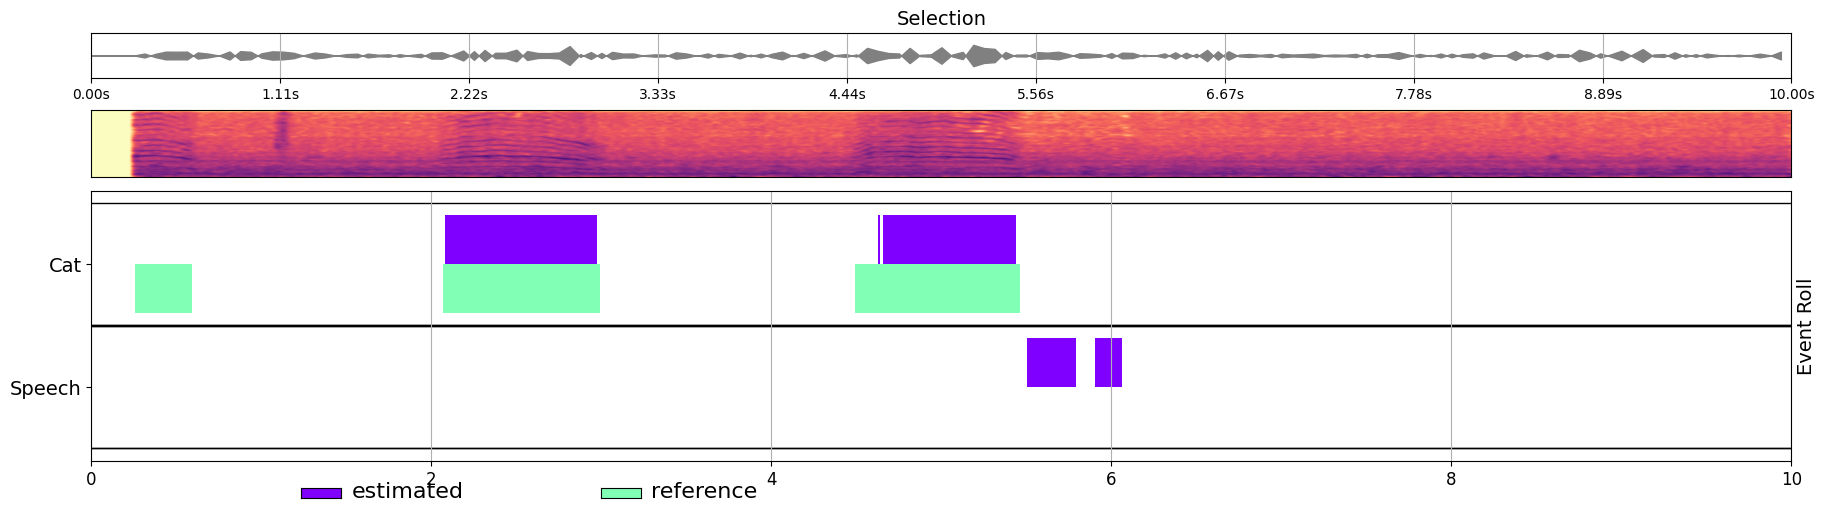
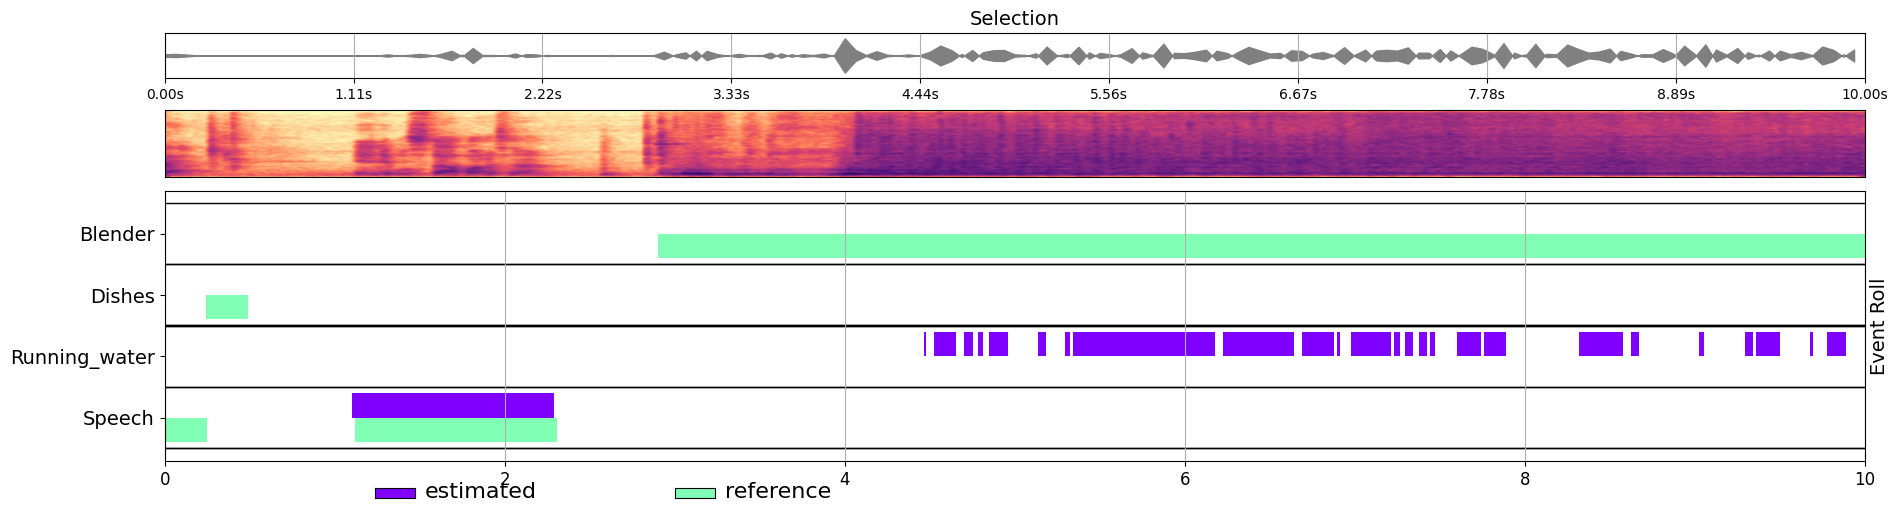
add an option to chose student or teacher model in inference; implement saving vis with multiprocessing

diff --git a/app/save_vis.py b/app/save_vis.py
@@ -1,3 +1,39 @@
+# import warnings
+# from tqdm import tqdm
+# from app import (
+#     create_dataset,
+#     initialize_sed,
+#     load_config,
+#     load_model,
+#     make_prediction,
+# )
+
+# warnings.filterwarnings("ignore")
+
+
+# def save_visualizations(
+#     save_dir: str = "vis_images",
+# ) -> None:
+#     config = load_config()
+#     sed, encoder = initialize_sed(config)
+#     sed = load_model(sed, model_path="../dvclive/artifacts/critical-bond.ckpt")
+#     dataset_strong = create_dataset(config, encoder)
+#     pbar = tqdm(enumerate(dataset_strong), total=len(dataset_strong))
+#     for idx, item in pbar:
+#         try:
+#             vis, _ = make_prediction(sed, dataset_strong, config, encoder, idx, False)
+#             vis.save(filename=f"{save_dir}/{idx}_vis.png")
+#         except Exception:
+#             pass
+#         else:
+#             pbar.set_description(
+#                 f"-------- Saved .png visualization for sample {idx + 1} --------"
+#             )
+
+
+# if __name__ == "__main__":
+#     save_visualizations()
+
 import warnings
 from tqdm import tqdm
 from app import (
@@ -7,29 +43,38 @@ from app import (
     load_model,
     make_prediction,
 )
+from multiprocessing import Pool, cpu_count
 
 warnings.filterwarnings("ignore")
 
 
-def save_visualizations(
+def process_item(idx_item_tuple):
+    idx, item = idx_item_tuple
+    try:
+        config = load_config()
+        sed, encoder = initialize_sed(config)
+        sed = load_model(sed, model_path="../dvclive/artifacts/critical-bond.ckpt")
+        dataset_strong = create_dataset(config, encoder)
+        vis, _ = make_prediction(sed, dataset_strong, config, encoder, idx, False)
+        vis.save(filename=f"vis_images/{idx}_vis.png")
+        return f"-------- Saved .png visualization for sample {idx + 1} --------"
+    except Exception as e:
+        return f"Failed to save visualization for sample {idx + 1}: {e}"
+
+
+def save_visualizations_concurrent(
     save_dir: str = "vis_images",
 ) -> None:
     config = load_config()
-    sed, encoder = initialize_sed(config)
-    sed = load_model(sed, model_path="../dvclive/artifacts/critical-bond.ckpt")
+    _, encoder = initialize_sed(config)
     dataset_strong = create_dataset(config, encoder)
-    pbar = tqdm(enumerate(dataset_strong), total=len(dataset_strong))
-    for idx, item in pbar:
-        try:
-            vis, _ = make_prediction(sed, dataset_strong, config, encoder, idx, False)
-            vis.save(filename=f"{save_dir}/{idx}_vis.png")
-        except Exception:
-            pass
-        else:
-            pbar.set_description(
-                f"-------- Saved .png visualization for sample {idx + 1} --------"
-            )
+
+    with Pool(processes=cpu_count()) as pool:
+        results = list(tqdm(pool.imap(process_item, enumerate(dataset_strong)), total=len(dataset_strong)))
+
+    for result in results:
+        print(result)
 
 
 if __name__ == "__main__":
-    save_visualizations()
+    save_visualizations_concurrent()

diff --git a/app/app.py b/app/app.py
@@ -98,6 +98,7 @@ def make_prediction(
     encoder: ManyHotEncoder,
     idx: int,
     print_df: bool = False,
+    model: str = "student",
 ) -> Tuple[
     sed_vis.visualization.EventListVisualizer, dcase_util.containers.AudioContainer
 ]:
@@ -116,7 +117,9 @@ def make_prediction(
         tuple: The visualizer for the event list and the audio container.
     """
     preds = batched_decode_preds(
-        sed(dataset_strong[idx][0]), dataset_strong[idx][3], encoder
+        sed.forward(dataset_strong[idx][0], model=model),
+        dataset_strong[idx][3],
+        encoder,
     )
     preds[2][0.5][["onset", "offset", "event_label"]].to_csv(
         "preds.tsv", index=False, sep="\t"
@@ -165,6 +168,7 @@ def inference(
     idx: int,
     model_path: str = "../dvclive/artifacts/epoch=68-step=7314.ckpt",
     print_df: bool = False,
+    **kwargs: str,
 ) -> Tuple[sed_vis.visualization.EventListVisualizer, np.ndarray, int]:
     """
     Performs inference on a sample from the dataset.
@@ -182,7 +186,7 @@ def inference(
     sed = load_model(sed, model_path)
     dataset_strong = create_dataset(config, encoder)
     vis, audio_container = make_prediction(
-        sed, dataset_strong, config, encoder, idx, print_df
+        sed, dataset_strong, config, encoder, idx, print_df, **kwargs
     )
     return vis, audio_container.data, audio_container.fs
 
@@ -194,7 +198,7 @@ def main() -> None:
 
     try:
         vis, audio, fs = inference(
-            idx, model_path="../dvclive/artifacts/critical-bond.ckpt"
+            idx, model_path="../dvclive/artifacts/critical-bond.ckpt", model="teacher"
         )
     except IndexError:
         st.error("Invalid index. Please enter a valid index.")

diff --git a/trainer.py b/trainer.py
@@ -976,10 +976,15 @@ class SED(pl.LightningModule):
         )
         return self.test_loader
 
-    def forward(self, x):
+    def forward(self, x, model="student"):
         features = self.mel_spec(x)
         features = features.unsqueeze(0)
-        preds, _ = self.sed_student(self.scaler(self.take_log(features)))
+        if model == "student":
+            preds, _ = self.sed_student(self.scaler(self.take_log(features)))
+        elif model == "teacher":
+            preds, _ = self.sed_teacher(self.scaler(self.take_log(features)))
+        else:
+            raise NotImplementedError("Only student and teacher models are available")
         return preds
 
 
